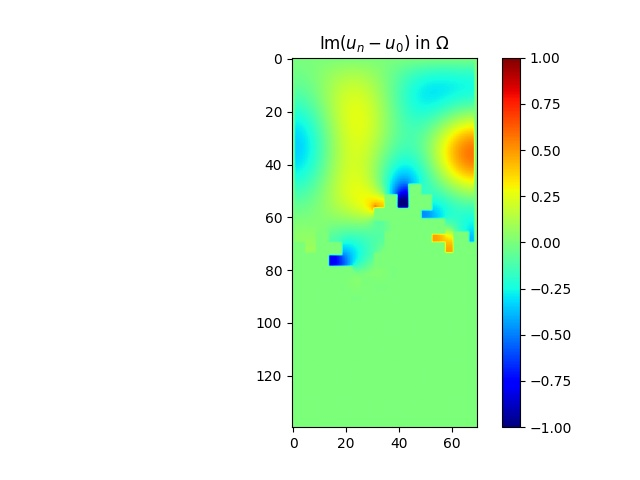
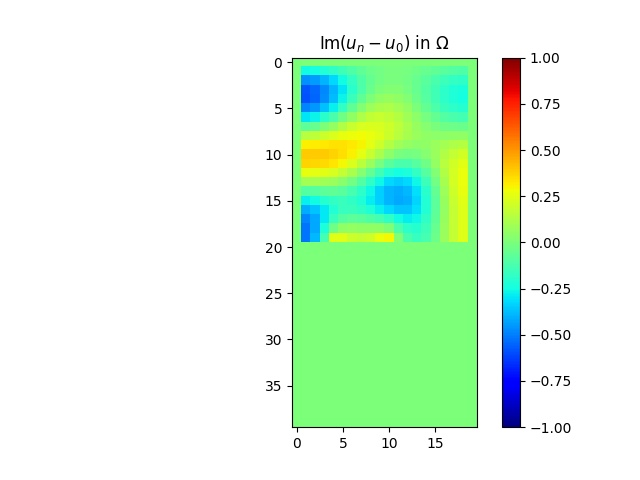
annuller les liners ailleurs que sur le bord

diff --git a/demo_control_polycopie.py b/demo_control_polycopie.py
@@ -28,7 +28,7 @@ def your_optimization_procedure(domain_omega, spacestep, omega, f, f_dir, f_neu,
 
     eps1 = 0.01
     eps2 = 0.01
-    eps0 = 0.01
+    eps0 = 0.00001
     """This function return the optimized density.
 
     Parameter:
@@ -43,7 +43,7 @@ def your_optimization_procedure(domain_omega, spacestep, omega, f, f_dir, f_neu,
 
     k = 0
     (M, N) = numpy.shape(domain_omega)
-    numb_iter = 100
+    numb_iter = 20
     energy = numpy.zeros((numb_iter+1, 1), dtype=numpy.float64)
     while k < numb_iter and mu > eps0:
         print('---- iteration number = ', k)
@@ -69,9 +69,8 @@ def your_optimization_procedure(domain_omega, spacestep, omega, f, f_dir, f_neu,
 
         while ene >= energy[k] and mu > eps0:
             l = 0
-
             print('    a. computing gradient descent')
-            chi_next = projector(chi-mu*Jp, l)
+            chi_next = projector(chi-mu*Jp, l, domain_omega)
 
             print('    b. computing projected gradient')
             while abs(integral(chi_next)-V_obj) >= eps1:
@@ -133,12 +132,13 @@ def your_compute_objective_function(domain_omega, u, spacestep, mu1, V_0):
     return J
 
 
-def projector(chi, l):
+def projector(chi, l, domain):
     n, m = numpy.shape(chi)
     new_chi = numpy.zeros((n, m), dtype='float')
     for i in range(n):
         for j in range(m):
-            new_chi[i][j] = max(0, min(chi[i][j]+l, 1))
+            if preprocessing.is_on_boundary(domain[i,j])=='BOUNDARY':
+                new_chi[i][j] = max(0, min(chi[i][j]+l, 1))
     return new_chi
 
 
@@ -148,7 +148,7 @@ def integral(chi):
     n, m = numpy.shape(chi)
     for j in range(m-1):
         for i in range(n-1):
-            res += chi[i][j]**2*spacestep**2
+            res += chi[i][j]**2*spacestep
     return res
 
 
@@ -158,9 +158,9 @@ if __name__ == '__main__':
     # -- Fell free to modify the function call in this cell.
     # ----------------------------------------------------------------------
     # -- set parameters of the geometry
-    N = 70  # number of points along x-axis
+    N = 20  # number of points along x-axis
     M = 2 * N  # number of points along y-axis
-    level = 2  # level of the fractal : limited by N
+    level = 0  # level of the fractal : limited by N
     spacestep = 1.0 / N  # mesh size
 
     # -- set parameters of the partial differential equation
